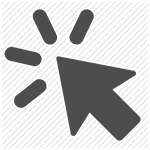
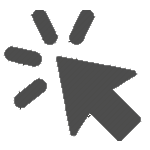
Оптимизация: убраны промежуточные переменные,              вычисление вектора скорости перемещено в методы событий,              вырезаны остатки фона картинки

diff --git a/core/src/ru/pin_ka/screen/MenuScreen.java b/core/src/ru/pin_ka/screen/MenuScreen.java
@@ -12,15 +12,13 @@ public class MenuScreen extends Base2DScreen {
     SpriteBatch batch;
     Texture background;
     Texture aim;
+
     Vector2 pos;
     Vector2 tap;
-    Vector2 sub;//разность векторов
     Vector2 v;//вектор скорости
-    Vector2 norm;//вектор направления
-    float v1=0;//скорость перемещения картинки
+
     int count=0;//счетчик итераций темпа
     int div=50;//темп движения картинки
-    boolean isKeyDown=false;//переключатель между режимами: клик по мыши/клик по стрелке на клавиатуре
 
     @Override
     public void show() {
@@ -31,8 +29,6 @@ public class MenuScreen extends Base2DScreen {
         pos=new Vector2(0,0);
         v=new Vector2(2,2);
         tap=new Vector2(0,0);
-        sub=new Vector2(0,0);
-        norm=new Vector2(0,0);
     }
 
     @Override
@@ -45,17 +41,7 @@ public class MenuScreen extends Base2DScreen {
         batch.draw(aim,pos.x,pos.y);
         batch.end();
         if(count>0){
-            if (count==div){
-                if (!isKeyDown) {
-                    tap.add(new Vector2(-57, -95));
-                    //так как картинка - стрелочка, то логичнее, если в цель придёт острие стрелочки.
-                }
-                sub=tap.sub(pos);
-                v1=sub.len()/div;
-                norm=sub.nor();
-                v=norm.scl(v1);
-            }
-                pos.add(v);
+            pos.add(v);
             count--;
         }
     }
@@ -70,11 +56,10 @@ public class MenuScreen extends Base2DScreen {
 
     @Override
     public boolean touchDown(int screenX, int screenY, int pointer, int button) {
-        float tapX=screenX;
-        float tapY=Gdx.graphics.getHeight()-screenY;
-        tap.set(tapX,tapY);
+        tap.set(screenX-57,Gdx.graphics.getHeight()-screenY-95);
+        //так как картинка - стрелочка, то логичнее, если в цель придёт острие стрелочки.
         count=div;
-        isKeyDown=false;
+        v=tap.cpy().sub(pos).nor().scl(tap.cpy().sub(pos).len()/div);
         return super.touchDown(screenX, screenY, pointer, button);
     }
 
@@ -93,7 +78,7 @@ public class MenuScreen extends Base2DScreen {
             tap.set(Gdx.graphics.getWidth()-150,pos.y);//чтобы картинка не выезжала за рамку
         }
         count=div;
-        isKeyDown=true;
+        v=tap.cpy().sub(pos).nor().scl(tap.cpy().sub(pos).len()/div);
         return super.keyDown(keycode);
     }
 }
